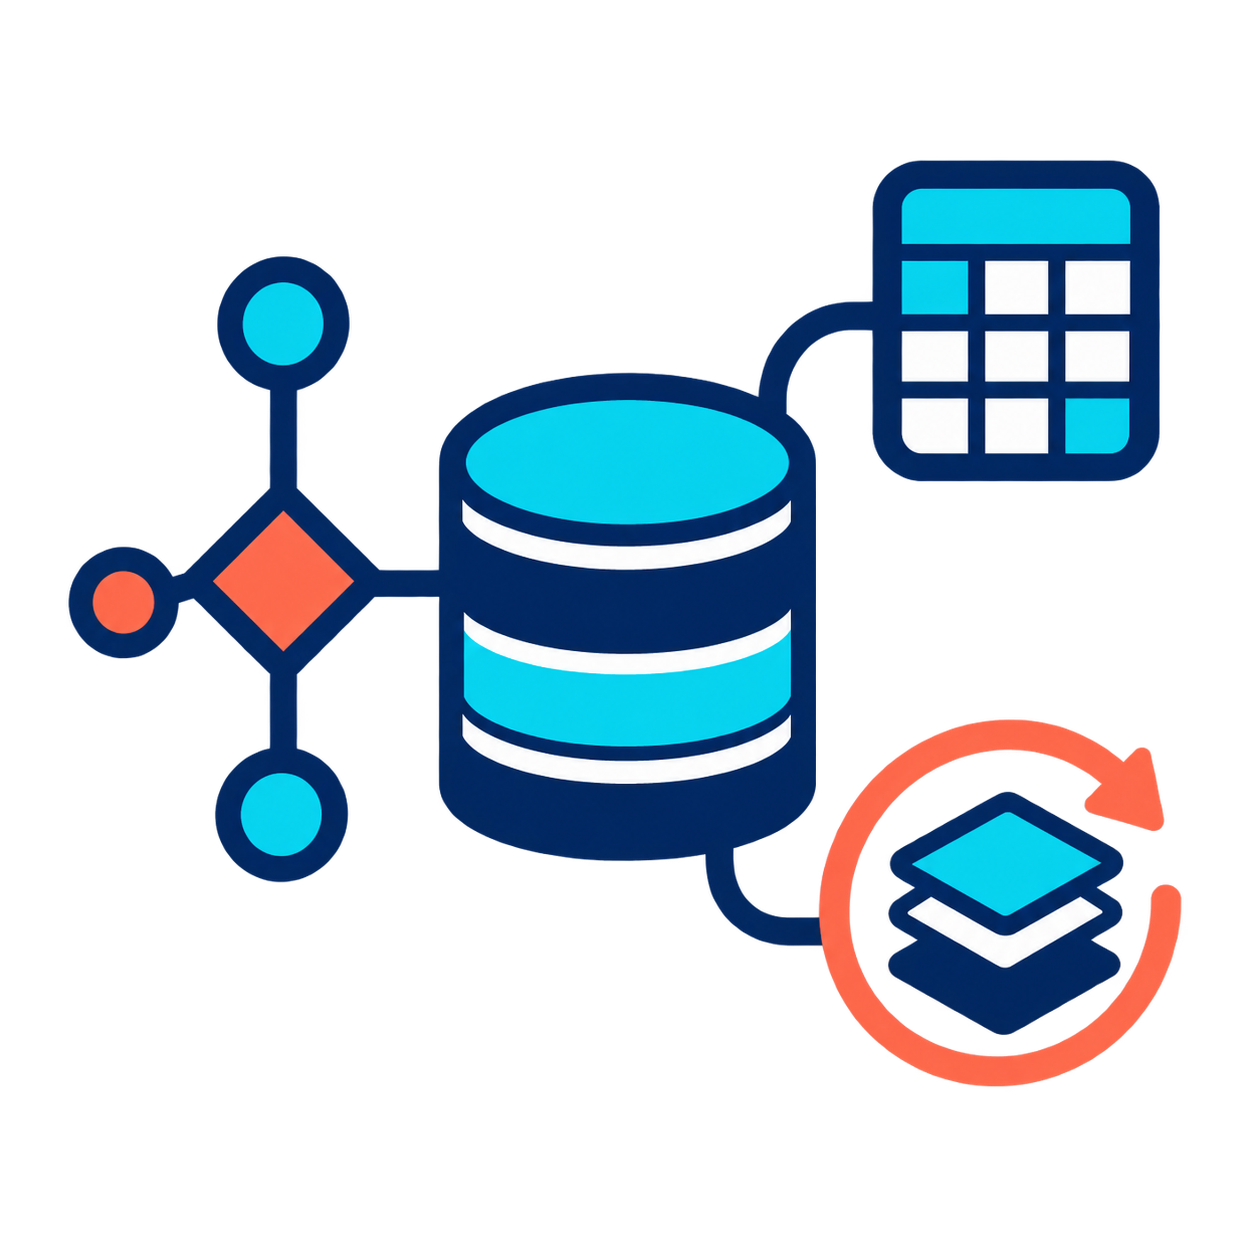
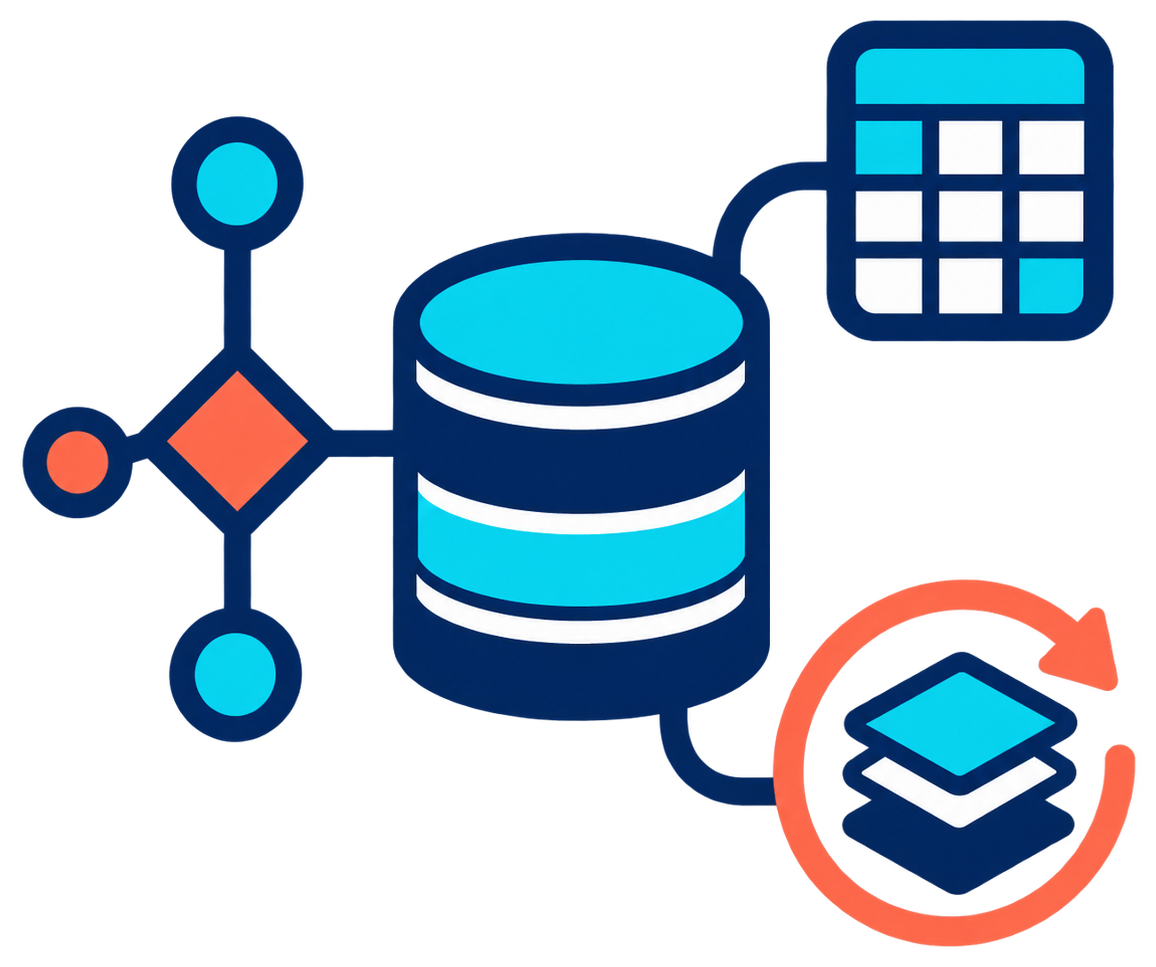
b/n

diff --git a/docs/css/extra.css b/docs/css/extra.css
@@ -96,6 +96,78 @@
 }
 
 /* =========================================================
+   🏠 PORTADA (HERO APAISADO)
+   ========================================================= */
+.home-hero {
+    display: flex;
+    align-items: center;
+    justify-content: center;
+    gap: 2rem;
+    width: 100%;
+    max-width: 1100px;
+    aspect-ratio: 3 / 1;
+    margin: 1rem auto;
+    padding: 0 3rem;
+    border-radius: 12px;
+    overflow: hidden;
+    background: linear-gradient(90deg, #013E37 0%, #0b5c52 100%);
+}
+
+[data-md-color-scheme="slate"] .home-hero {
+    background: linear-gradient(90deg, #0f766e 0%, #14b8a6 100%);
+}
+
+.md-typeset .home-hero__img {
+    max-width: 40%;
+    max-height: 85%;
+    width: auto;
+    height: auto;
+    margin: 0;
+    border: none;
+    border-radius: 0;
+    box-shadow: none;
+}
+
+.home-hero__text {
+    display: flex;
+    flex-direction: column;
+    gap: 0.5rem;
+    color: #ffffff;
+}
+
+.home-hero__title {
+    font-size: 2rem;
+    font-weight: 700;
+    line-height: 1.15;
+}
+
+.home-hero__subtitle {
+    font-size: 1.1rem;
+    font-weight: 400;
+    color: rgba(255, 255, 255, 0.85);
+}
+
+@media (max-width: 600px) {
+    .home-hero {
+        aspect-ratio: 16 / 9;
+        gap: 1rem;
+        padding: 0 1.25rem;
+    }
+
+    .md-typeset .home-hero__img {
+        max-width: 35%;
+    }
+
+    .home-hero__title {
+        font-size: 1.2rem;
+    }
+
+    .home-hero__subtitle {
+        font-size: 0.85rem;
+    }
+}
+
+/* =========================================================
    🔝 HEADER
    ========================================================= */
 .md-header {
@@ -264,6 +336,10 @@ p {
     cursor: zoom-in;
 }
 
+.md-typeset img.grayscale {
+    filter: grayscale(100%);
+}
+
 .md-typeset .infografia-ejercicio {
     display: block;
     width: 100%;
@@ -311,6 +387,10 @@ body.lightbox-open {
     border-radius: 8px;
     box-shadow: 0 20px 50px rgba(0, 0, 0, 0.35);
     background: #fff;
+}
+
+.lightbox-image.grayscale {
+    filter: grayscale(100%);
 }
 
 .lightbox-close {

diff --git a/docs/javascripts/lightbox.js b/docs/javascripts/lightbox.js
@@ -26,9 +26,10 @@ function initLightbox() {
   overlay.appendChild(dialog);
   document.body.appendChild(overlay);
 
-  function openLightbox(src, alt) {
+  function openLightbox(src, alt, grayscale) {
     image.src = src;
     image.alt = alt || 'Vista ampliada';
+    image.classList.toggle('grayscale', !!grayscale);
     overlay.classList.add('is-open');
     document.body.classList.add('lightbox-open');
   }
@@ -49,7 +50,7 @@ function initLightbox() {
 
     event.preventDefault();
     event.stopPropagation();
-    openLightbox(clickedImage.currentSrc || clickedImage.src, clickedImage.alt || clickedImage.title || '');
+    openLightbox(clickedImage.currentSrc || clickedImage.src, clickedImage.alt || clickedImage.title || '', clickedImage.classList.contains('grayscale'));
   });
 
   overlay.addEventListener('click', function (event) {

diff --git a/docs/Model_Relacional/5_ejercicios.md b/docs/Model_Relacional/5_ejercicios.md
@@ -12,36 +12,36 @@ Realizar el esquema relacional correspondiente a los ejercicios del Tema Entidad
 
 Recordad que teníamos 3 opciones:
 
-![alt text](image-35.png){width=400}
+![alt text](image-35.png){ .grayscale width=400 }
 
 
 ## <span class="exercise-title"><span class="exercise-icon">📝</span><span>Ejercicio 2</span></span>
 
 
-![alt text](image-34.png)
+![alt text](image-34.png){ .grayscale }
 
 
 ## <span class="exercise-title"><span class="exercise-icon">📝</span><span>Ejercicio 3</span></span>
 
 
-![alt text](image-57.png)
+![alt text](image-57.png){ .grayscale }
 
 ## <span class="exercise-title"><span class="exercise-icon">📝</span><span>Ejercicio 4</span></span>
 
 
-![alt text](image-38.png)
+![alt text](image-38.png){ .grayscale }
 
 
 ## <span class="exercise-title"><span class="exercise-icon">📝</span><span>Ejercicio 5</span></span>
 
 
-![alt text](image-46.png)
+![alt text](image-46.png){ .grayscale }
 
 
 ## <span class="exercise-title"><span class="exercise-icon">📝</span><span>Ejercicio 6</span></span>
 
 
-![alt text](image.png)
+![alt text](image.png){ .grayscale }
 
 
 ## <span class="exercise-title"><span class="exercise-icon">📝</span><span>Ejercicio 7</span></span>
@@ -52,14 +52,14 @@ En la de arriba consideramos únicamente los viajes (y no los trayectos). Ademá
 
 En la segunda incorporamos los trayectos, y además marcamos todas las estaciones donde se para en un trayecto.
 
-![alt text](image-48.png)
+![alt text](image-48.png){ .grayscale }
 
 
 ## <span class="exercise-title"><span class="exercise-icon">📝</span><span>Ejercicio 8</span></span>
 
 Realizar el esquema relacional correspondiente a un sistema de información sobre el material informático de una empresa.
 
-![alt text](image-2.png)
+![alt text](image-2.png){ .grayscale }
 
 <!--
 Se desea mantener información sobre el material informático de una empresa.
@@ -112,7 +112,7 @@ Observad cómo por un lado debéis guardar los permisos de los empleados sobre l
 Realizar el esquema relacional correspondiente a un sistema de información de una empresa que vende gran variedad de productos. Para la venta de estos productos, dispone de un conjunto de viajantes que realizan visitas a los clientes ofreciendo sus productos.
 
 
-![alt text](image-52.png)
+![alt text](image-52.png){ .grayscale }
 
 <!--
 Diseñar el diagrama E-R, y traducirlo después al relacional, de un sistema de información de una empresa que vende gran variedad de productos. Para la venta de estos productos, dispone de un conjunto de viajantes que realizan visitas a los clientes ofreciendo sus productos.
@@ -144,7 +144,7 @@ El sistema de información ha de ser capaz de responder a consultas como:
 Realizar el esquema relacional correspondiente a un Parque Zoológico que quiere guardar información de las especies que tiene, los empleados (cuidadores y guías), y los distintos itinerarios de visita que ofrece.
 
 
-![alt text](image-3.png)!
+![alt text](image-3.png){ .grayscale }
 
 <!--
 Hacer el esquema E/R y posteriormente pasarlo a relacional correspondiente a un Parque Zoológico que quiere guardar información de las especies que tiene, los empleados (cuidadores y guías), y los distintos itinerarios de visita que ofrece.

diff --git a/docs/index.md b/docs/index.md
@@ -6,4 +6,9 @@ hide:
 
 <h1 hidden>BD - Modelado de Bases de Datos</h1>
 
-![Icono de Modelado de Bases de Datos](portada-icono.png){ style="display: block; width: 500px; max-width: 80%; margin: 2rem auto;" }
+<div class="home-hero">
+  <img src="portada-icono.png" alt="Icono de Modelado de Bases de Datos" class="home-hero__img">
+  <div class="home-hero__text">
+    <span class="home-hero__title">Modelado de Bases de Datos</span>
+  </div>
+</div>
